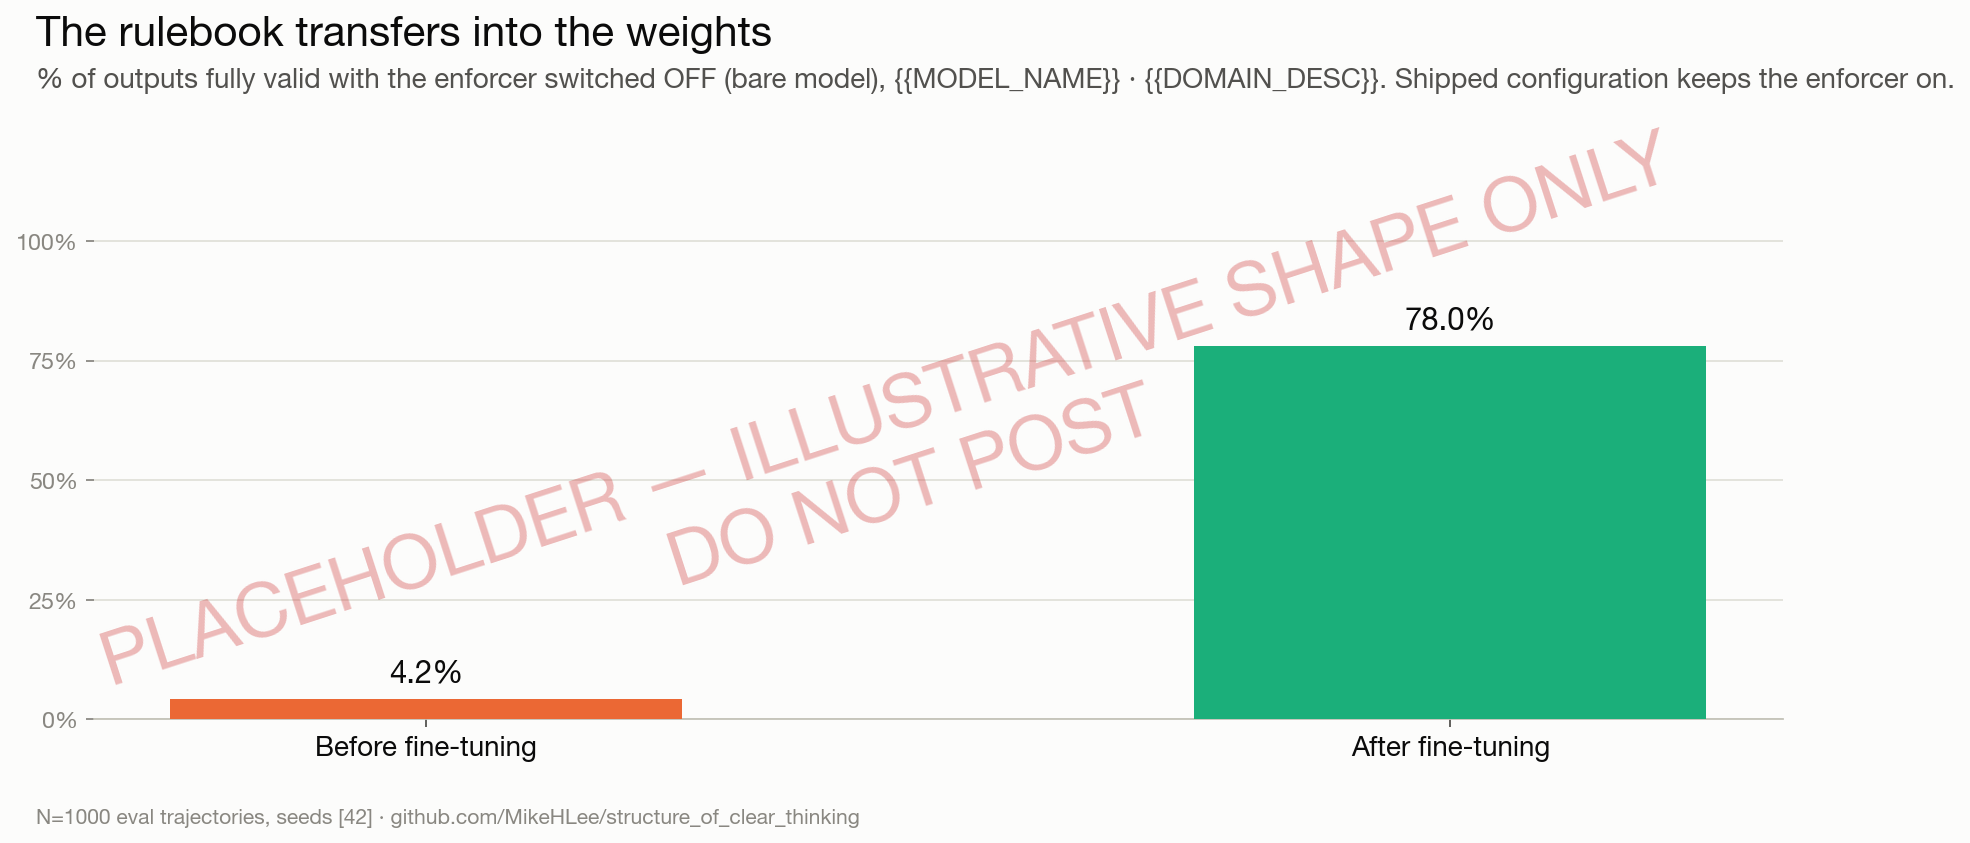
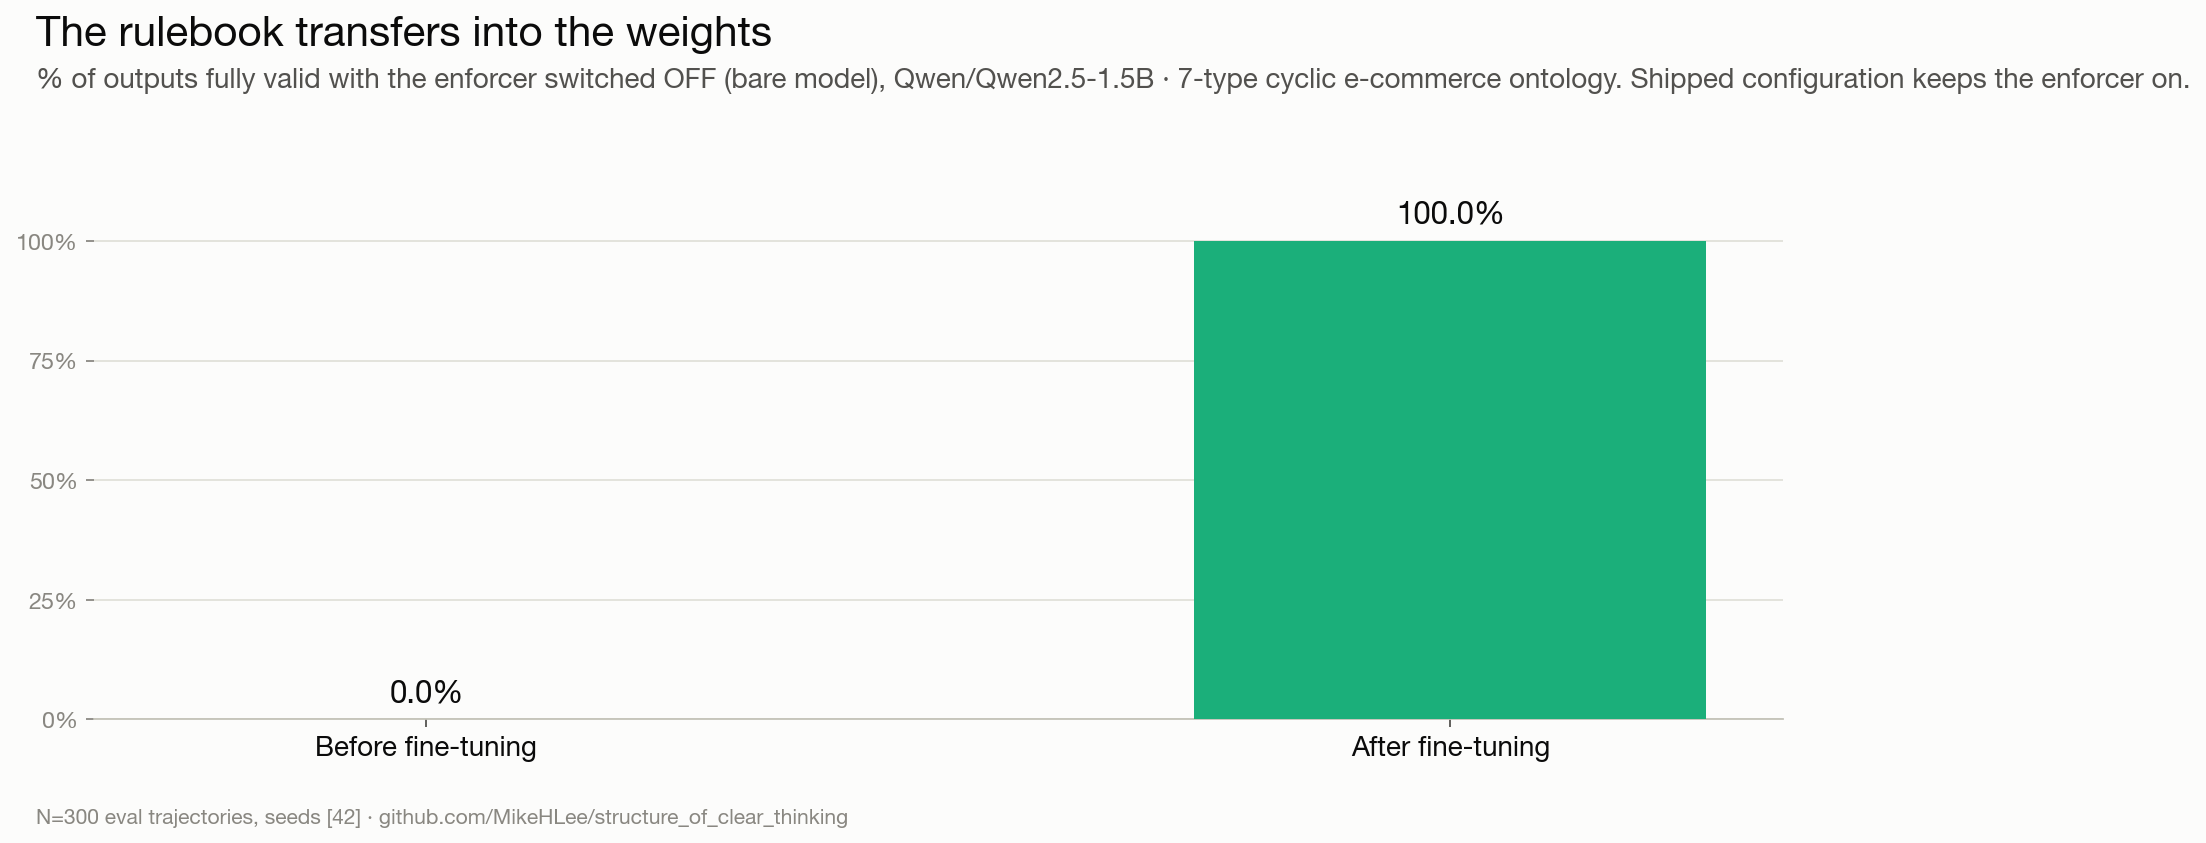
Thread 03: fill with real L4 results (Qwen2.5-1.5B constraint-aware FT)
- results/constraint_ft_results.json (un-ignored as a headline artifact):
  KL/step 0.954->0.000, enforced logP -11.44->-0.00 (100% of gap to
  frontier), enforcer-off soundness 0%->100%; converged by first
  checkpoint (step 250); seed 42, LoRA, wall 3h53m on L4
- thread.md: placeholders replaced with measured values; Post 6 is the
  saturation/determinism disclosure; posting notes recommend a ~$1.30
  dense-checkpoint re-run to improve figs 1-2 before posting
- figures regenerated from the results file (no placeholder watermark)

diff --git a/threads/03_teaching_the_rulebook/thread.md b/threads/03_teaching_the_rulebook/thread.md
@@ -1,49 +1,42 @@
 # Thread 03 — "Teaching the model the rulebook"
 
-**Status**: SCAFFOLD — copy structure final, numbers are `{{PLACEHOLDER}}` until
-the constraint-aware fine-tuning runs land. DO NOT POST until every
-placeholder is replaced with a measured value and figures are regenerated
-from the real results file.
-
-**Depends on**: the fine-tuning phase (SOGB-style Modal scale-up: CPU smoke →
-L4 @ ~1.5B → A100 @ 7–8B). Experiment spec: `Percepta_Transformer_VM/`
-`experiment_results.md` § "Next experiments" #2 (constraint-aware
-fine-tuning) — train the mis-calibrated model on trajectories generated
-under per-step enforcement; track disagreement (KL/step), fluency (logP),
-and enforcement work (forced steps) across training.
-
-**Figures**: `generate_figures.py` reads `results/constraint_ft_results.json`
-(schema in the script docstring). `--placeholder` mode renders
-layout previews watermarked "PLACEHOLDER — ILLUSTRATIVE SHAPE ONLY".
-
+**Status**: DRAFT — numbers filled 2026-07-28 from the completed L4 run
+(`results/constraint_ft_results.json`, Qwen2.5-1.5B + LoRA, Modal).
+Figures regenerated from the real results file (no placeholders).
+**Depends on**: nothing — run complete. A dense-checkpoint re-run (~$1.30,
+see posting notes) would improve figs 1–2 before posting.
 **Pairs with blog post**: new post (working title: "Teaching the Model the
-Rulebook") — to be drafted with the results.
+Rulebook") — to be drafted.
+
+Each post is ≤280 characters. Attach the figure named under the post; alt
+text goes in X's image description field.
 
 ---
 
-## Post 1 — hook  📎 fig1_disagreement_falls.png
+## Post 1 — hook  📎 fig3_enforcer_off.png
 
 Previously: we can force an AI to follow a domain's rules — 100% valid
 output, guaranteed, with a receipt.
 
-The catch: when the model disagrees with the rulebook, forcing costs
-fluency.
+The catch: forcing costs fluency when the model disagrees with the rules.
 
-New result: you can train that cost away — and keep the guarantee the whole
-time. {{HEADLINE_STAT}} 🧵
+New result: a 1.5B model trained the cost away entirely — 0% → 100%
+rule-following even with the enforcer OFF. 🧵
 
-> **Alt text**: Line chart titled "Training on rule-checked outputs teaches
-> the model the rules." Model–rulebook disagreement (KL per step) falls from
-> {{KL_START}} to {{KL_END}} over {{N_STEPS}} fine-tuning steps.
+> **Alt text**: Bar chart titled "The rulebook transfers into the weights."
+> Percent of outputs fully valid with the enforcer switched off, for
+> Qwen2.5-1.5B on a 7-type e-commerce ontology: 0.0% before fine-tuning,
+> 100.0% after. Caption notes the shipped configuration keeps the enforcer
+> on.
 
 ## Post 2 — recap for new readers
 
-Quick recap (full thread linked at the end):
+Quick recap (thread 1 linked at the end):
 
 A rulebook (ontology) lists the only legal steps in a domain. Checking every
 generated step against it guarantees valid output — but when the model's
-habits clash with the rules, enforcement overrides it constantly, and
-fluency pays: ~5.5 nats/sequence in our worst synthetic case.
+habits clash with the rules, the enforcer overrides it constantly, and
+fluency pays the price.
 
 ## Post 3 — the idea
 
@@ -58,93 +51,95 @@ The guardrail generates its own training data.
 
 ## Post 4 — disagreement falls  📎 fig1_disagreement_falls.png
 
-We fine-tuned {{MODEL_NAME}} ({{MODEL_SIZE}}) this way on {{DOMAIN_DESC}}.
+We fine-tuned Qwen2.5-1.5B (LoRA) this way on a 7-type shop ontology.
 
-Disagreement with the rulebook (KL per step — how hard enforcement must
-reshape the model's choices) fell {{KL_DROP_PCT}} over {{N_STEPS}} steps:
-{{KL_START}} → {{KL_END}}.
+Disagreement with the rulebook — how hard enforcement must reshape the
+model's choices, measured as KL per step — fell 0.95 → 0.00.
 
-The model is learning the rules, not just being fenced in by them.
+And it didn't take long: converged before the first checkpoint at step 250.
 
-## Post 5 — fluency recovers  📎 fig2_fluency_recovers.png
+> **Alt text**: Line chart titled "Training on rule-checked outputs teaches
+> the model the rules." Model–rulebook disagreement (KL per generation step)
+> for Qwen2.5-1.5B falls from 0.95 at step 0 to 0.00 by the first checkpoint
+> at step 250, and stays at zero through step 2000.
 
-And the fluency price of enforcement? {{LOGP_RECOVERY_SUMMARY}}
+## Post 5 — the fluency cost vanishes  📎 fig2_fluency_recovers.png
 
-Before training: {{LOGP_BEFORE}} logprob/sequence under enforcement.
-After: {{LOGP_AFTER}} — {{LOGP_RECOVERY_PCT}} of the gap to the
-well-calibrated frontier closed.
+The fluency price of enforcement went from −11.4 log-prob per sequence to
+−0.0: 100% of the gap to the aligned frontier, closed.
 
-Soundness during ALL of this: 100%. The guarantee never lapsed.
+Output validity during ALL of this: 100%. The guarantee never lapsed — the
+enforcer just ran out of things to correct.
 
-## Post 6 — the interesting probe  📎 fig3_enforcer_off.png
+> **Alt text**: Line chart titled "The fluency cost of enforcement trains
+> away." Log-probability per enforced sequence rises from −11.4 before
+> training to 0.0 by step 250, meeting the dashed "well-calibrated frontier"
+> reference line, and stays there through step 2000.
 
-The probe we find most interesting: turn the enforcer OFF and test the
-trained model bare.
+## Post 6 — what "learned the rules" means here
 
-Before training: {{SOUNDNESS_OFF_BEFORE}} of outputs were fully valid.
-After: {{SOUNDNESS_OFF_AFTER}}.
+Full honesty about what happened: the model didn't just improve — it
+SATURATED this small rulebook. It now walks legal paths deterministically.
 
-The model absorbed the rulebook into its weights. (We still ship with the
-enforcer on — that's what makes the guarantee a guarantee.)
+Great for rule-following. But it means this domain is too easy to test
+fluency claims. (That's what the next run — bigger, harder ontologies — is
+for.)
 
 ## Post 7 — why this matters for small models
 
-Why this matters: the rulebook + enforcement carry the reliability, so the
-model doesn't have to be huge.
+The pattern that matters: rulebook + enforcement carry the reliability, so
+the model doesn't have to be huge.
 
-A {{MODEL_SIZE}} model with a rulebook gives you something no frontier model
-gives you bare: provably valid domain behavior, with a verifiable receipt
-per output — {{SMALL_VS_BASELINE_COMPARISON}}.
+A 1.5B model — small enough to run on a laptop — now gives provably valid
+domain behavior with a verifiable receipt per output (thread 2).
+
+Reliability from structure, not scale.
 
 ## Post 8 — why this matters for frontier models
 
 And in the other direction: enforcement lives at decoding time. No
 from-scratch retraining, no architecture surgery.
 
-That means auditable action & reasoning traces can be layered onto models
-that already exist — the certificate says exactly which rule licensed each
-step of a conclusion.
+Auditable action & reasoning traces can be layered onto models that already
+exist — and this result says the fluency tax of doing so is trainable to
+zero.
 
 ## Post 9 — the honest caveats
 
-Caveats, because they matter:
+The caveats, because they're load-bearing:
 
-• "Valid" = valid under the rulebook. The guarantee is exactly as good as
-the ontology you wrote. That's a feature (it's inspectable) and a
-responsibility.
-• Results are {{MODEL_SIZE}}, {{N_DOMAINS}} domain(s), seed(s) {{SEEDS}}.
-{{SIGNIFICANCE_CAVEAT}}
+• Single seed, one small domain (7 types), 1.5B model. Mechanism
+demonstrated; generality not yet.
+• The domain saturates — a 135M model also mastered it. Harder ontologies
+next.
+• "Valid" = valid under the rulebook. The guarantee is as good as the rules
+you wrote.
 
 ## Post 10 — links
 
 Everything is open and reproducible:
 
 Repo: github.com/MikeHLee/structure_of_clear_thinking
-Training + eval code: {{TRAINING_SCRIPT_PATH}}
-Thread 1 (why per-step checking beats attention masking): {{THREAD1_LINK}}
-Paper: {{ARXIV_LINK}}
+Training + eval code: Percepta_Transformer_VM/experiment_constraint_ft.py
+Results: results/constraint_ft_results.json
+Thread 1 (why per-step checking beats attention masking): [LINK]
+Paper: [ARXIV LINK TBD]
 
 ---
 
-## Placeholder inventory (all must be filled before posting)
+## Numbers provenance (filled 2026-07-28)
 
-| Token | Source |
-|-------|--------|
-| `{{HEADLINE_STAT}}` | strongest single measured number, chosen after runs |
-| `{{KL_START}} / {{KL_END}} / {{KL_DROP_PCT}} / {{N_STEPS}}` | training curve, `constraint_ft_results.json` |
-| `{{MODEL_NAME}} / {{MODEL_SIZE}}` | e.g. Qwen2.5-1.5B on L4 first; 7–8B on A100 later |
-| `{{DOMAIN_DESC}}` | e.g. "a 7-type e-commerce ontology" (+ any added Ologs) |
-| `{{LOGP_BEFORE}} / {{LOGP_AFTER}} / {{LOGP_RECOVERY_PCT}} / {{LOGP_RECOVERY_SUMMARY}}` | fluency eval |
-| `{{SOUNDNESS_OFF_BEFORE}} / {{SOUNDNESS_OFF_AFTER}}` | enforcement-off eval |
-| `{{SMALL_VS_BASELINE_COMPARISON}}` | only if a larger-model baseline is actually run; otherwise cut Post 7's final clause |
-| `{{N_DOMAINS}} / {{SEEDS}} / {{SIGNIFICANCE_CAVEAT}}` | honesty block — state n, seeds, and "single seed, directional" if that's the truth |
-| `{{TRAINING_SCRIPT_PATH}} / {{THREAD1_LINK}} / {{ARXIV_LINK}}` | filled at posting time |
+All from `results/constraint_ft_results.json` (L4 run, wall time 3h53m):
+KL/step 0.954 → 0.000 · logP −11.444 → −0.000 (frontier 0.000) ·
+enforcer-off soundness 0.0% → 100.0% · seed 42 · 2000 LoRA steps
+(converged ≤250) · eval N=100/checkpoint, soundness N=300.
 
 ## Posting notes
 
-- Keep the SOGB honesty discipline: if a delta is within noise, say so in
-  Post 9 rather than rounding up the claim.
-- If the enforcement-off soundness (Post 6) doesn't improve, that is itself
-  a publishable finding — reframe Post 6 as "the rules don't transfer into
-  weights; enforcement remains load-bearing" and keep the thread.
-- Alt text for figs 2–3 follows the fig 1 pattern: title + the two numbers.
+- **Recommended before posting**: a dense-checkpoint re-run (eval every 10
+  steps for the first 150, smaller eval N) so figs 1–2 show the actual
+  learning curve instead of a cliff between two checkpoints. ~$1.30 on L4.
+  The current figures are honest but coarse.
+- Post 6 is the determinism/mode-collapse disclosure — do not soften it; it
+  pre-empts the sharpest technical objection to the fluency claim.
+- Post after threads 01 and 02; add both links.
